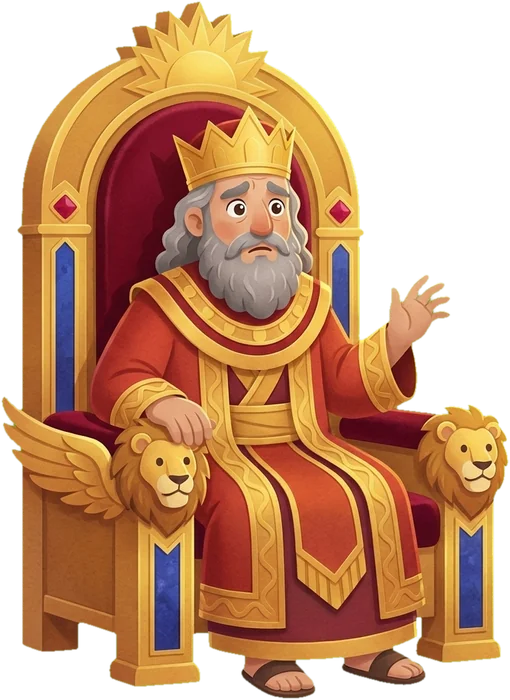
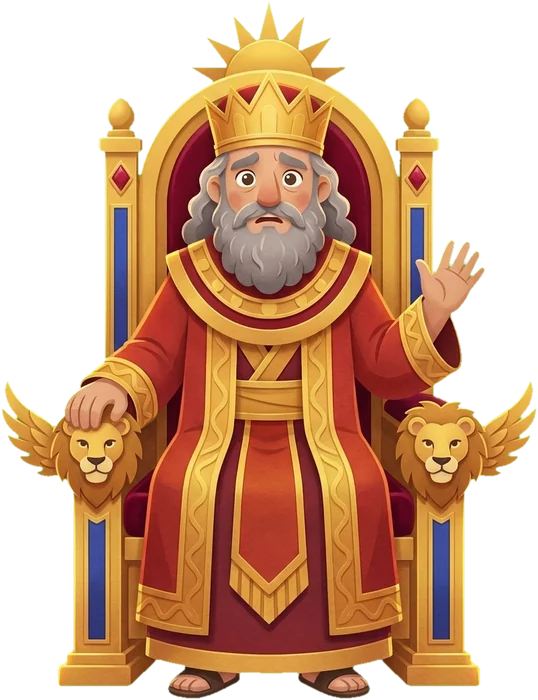
Daniel page 2: king regenerated as a square front portrait
The throne was frontal but the king turned to his left. Regenerated with
head straight, shoulders square, eyes on the viewer and symmetric feet,
same worried look and raised palm.

diff --git a/docs/evidence/2026-09-18-trap-palace/record.md b/docs/evidence/2026-09-18-trap-palace/record.md
@@ -131,3 +131,15 @@ down."
   phone-safe zone (x 90–910). Hotspots: king 50 % / 42 %, scroll 54 % / 64 %.
 - Checks: `check:motion` 27 clean; full-size render `trap-after-court.png`;
   browser fresh context `trap-court-phone.png`; hook on commit.
+
+## Round 5: the king himself faces the room
+
+User: "The king still needs to face the room properly." The round-2 king
+cutout had the throne frontal but the king turned to his left with the
+raised hand. Regenerated as a formal front portrait: head straight,
+shoulders square, eyes on the viewer, feet symmetrical, throne centred and
+symmetrical, same worried expression and raised palm. Raw of the turned
+version kept locally as `king-throne-v2-turned.png`; cutout 538×700, 59 KB;
+scene still 399 KB. Cutout on green `king-throne-round-5.png`; render
+`trap-after-court.png` and phone still `trap-court-phone.png` replaced;
+sidecar replaced.

diff --git a/handoff.md b/handoff.md
@@ -15,7 +15,7 @@ secret scan or audit). The latest increment closes that gap with local gates.
 Latest: **Daniel page 2 rebuilt symmetric** (round 4: background regenerated
 straight-on with the dais centre-back so the throne faces the room; courtiers
 regenerated seated naturally and placed at 0.38 either side of the carpet;
-officials face the king). Also **Daniel page 5** family scaled to Daniel
+officials face the king; round 5: king regenerated as a square front portrait). Also **Daniel page 5** family scaled to Daniel
 (`52225be`). Rounds 2–3 on page 2: `king-throne` regenerated, two new seated pairs `courtiers-left` /
 `courtiers-right` on the floor either side of the carpet, facing the room (round 3;
 round 2 had them on the dais, turned inward); a green robe got chroma-keyed once, regenerated
